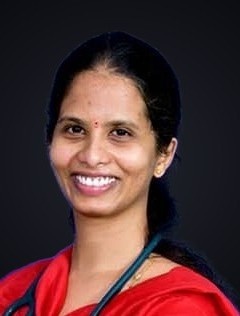
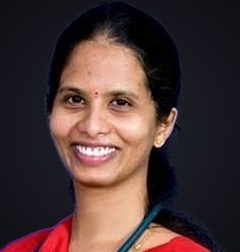
Consistent doctor photos; exact clinic map location
- ENT doctor photo re-cropped to match the psychiatrist's framing
- Doctor photo boxes sized by layout so both cards match on all screens
- Open in Maps points to the clinic's exact coordinates

diff --git a/styles.css b/styles.css
@@ -153,7 +153,9 @@ nav a:hover { color: var(--primary); }
 .doc { display: grid; grid-template-columns: 40% 1fr; background: #fff; border: 1px solid var(--line); border-radius: 10px; overflow: hidden; }
 .doc-photo { position: relative; background: var(--soft); }
 .doc.ent .doc-photo { background: var(--ent-soft); }
-.doc-photo img { width: 100%; height: 100%; min-height: 280px; object-fit: cover; object-position: center top; }
+/* photo fills its box; the box (not the photo's own shape) sets the size, so both doctor cards match */
+.doc-photo { min-height: 280px; }
+.doc-photo img { position: absolute; inset: 0; width: 100%; height: 100%; object-fit: cover; object-position: center top; }
 .tag { position: absolute; left: 12px; bottom: 12px; background: #fff; border: 1px solid var(--line); border-radius: 6px; padding: 3px 9px; font-size: 11px; font-weight: 700; letter-spacing: 1.5px; text-transform: uppercase; }
 .doc-body { padding: 30px 28px; }
 .role { font-size: 12.5px; font-weight: 700; letter-spacing: 1.5px; text-transform: uppercase; color: var(--primary); }
@@ -161,7 +163,8 @@ nav a:hover { color: var(--primary); }
 .doc h3 { font-family: var(--serif); font-weight: 400; font-size: 28px; line-height: 1.15; margin: 10px 0 6px; }
 .deg { color: var(--muted); font-size: 15px; padding-bottom: 18px; border-bottom: 1px solid var(--line); margin-bottom: 18px; }
 .doc p { color: var(--muted); font-size: 15px; margin-bottom: 20px; }
-@media (max-width: 560px) { .doc { grid-template-columns: 1fr; } .doc-photo img { height: 300px; } }
+/* phones: portrait photo box (like the photos themselves) so faces aren't zoomed or cut */
+@media (max-width: 560px) { .doc { grid-template-columns: 1fr; } .doc-photo { min-height: 0; aspect-ratio: 4 / 5; } }
 
 /* Testimonials – auto-scrolling row; pauses on hover/touch */
 .testimonials { border-bottom: 1px solid var(--line); overflow: hidden; }

diff --git a/index.html b/index.html
@@ -277,7 +277,7 @@
         <p class="lead">Serving patients in Anaparthi and the surrounding community.</p>
       </div>
       <div class="visit-grid">
-        <div class="vi"><svg class="icon"><use href="#i-pin"/></svg><div><b>Clinic location</b><p>D. No: 8-48, Opposite the Late Sri Tetali Rama Reddy Residence, Narayya Well Street, Anaparthi</p><a class="more" href="https://www.google.com/maps/search/?api=1&query=Narayya+Well+Street,+Anaparthi,+Andhra+Pradesh" target="_blank" rel="noopener">Open in Maps<svg class="icon"><use href="#i-right"/></svg></a></div></div>
+        <div class="vi"><svg class="icon"><use href="#i-pin"/></svg><div><b>Clinic location</b><p>D. No: 8-48, Opposite the Late Sri Tetali Rama Reddy Residence, Narayya Well Street, Anaparthi</p><a class="more" href="https://www.google.com/maps/search/?api=1&amp;query=16.929583,81.957667" target="_blank" rel="noopener">Open in Maps<svg class="icon"><use href="#i-right"/></svg></a></div></div>
         <div class="vi"><svg class="icon"><use href="#i-phone"/></svg><div><b>Telephone</b><p><a href="tel:+919177256111">+91 91772 56111</a><br>Prior appointment is necessary.</p></div></div>
         <div class="vi"><svg class="icon"><use href="#i-chat"/></svg><div><b>WhatsApp</b><p><a href="https://wa.me/919177256111" target="_blank" rel="noopener">Message the clinic</a></p></div></div>
       </div>
